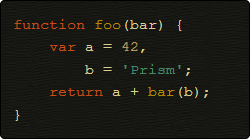
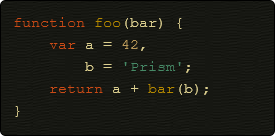
Added automated screenshot task (#80)
This adds a gulp task for automatically redoing all screenshots.
The task can be run using `npx gulp screenshot`.

I used [capture-website](https://github.com/sindresorhus/capture-website) to take the screenshot which uses Chrome under the hood.

A few improvements compared to the current screenshots:

- All images have the same width.
- Proper transparency for rounded corners.
- Proper centering and clipping for all images.
- All screenshots reflect how the theme actually looks in the browser (all Duotone * screenshots have increased padding).

diff --git a/gulpfile.js b/gulpfile.js
@@ -1,0 +1,64 @@
+const fs = require('fs').promises;
+const captureWebsite = require('capture-website');
+const path = require('path');
+
+
+const themesDir = path.join(__dirname, 'themes');
+const screenshotDir = path.join(__dirname, 'screenshots');
+
+/**
+ * Returns the names of all themes. This includes the `prism-` prefix.
+ */
+async function getThemes() {
+	return (await fs.readdir(themesDir)).map(f => (/^.+(?=\.css$)/.exec(f) || [''])[0]).filter(f => f);
+}
+
+/**
+ * Takes a screenshot of all themes overwriting the old ones.
+ */
+async function screenshotAllThemes() {
+	for (const theme of await getThemes()) {
+		await screenshotTheme(theme, true);
+	}
+}
+
+/**
+ * Takes a screenshot of themes which don't have one already.
+ */
+async function screenshotMissingThemes() {
+	for (const theme of await getThemes()) {
+		await screenshotTheme(theme, false);
+	}
+}
+
+/**
+ * Takes a screenshot of the given themes and saves the image file in the screenshot directory.
+ *
+ * __IMPORTANT:__ Screenshots have to be taken sequentially, one after an other, to prevent a memory leak.
+ *
+ * @param {string} theme
+ * @param {boolean} overwrite
+ */
+async function screenshotTheme(theme, overwrite) {
+	const file = `${screenshotDir}/${theme}.png`;
+
+	if (await fs.stat(file).then(s => s.isFile()).catch(() => false)) {
+		if (overwrite) {
+			await fs.unlink(file);
+		} else {
+			return;
+		}
+	}
+
+	await captureWebsite.file(screenshotDir + '/code.html', file, {
+		defaultBackground: false,
+		scaleFactor: 1,
+		element: 'pre',
+		styles: [
+			await fs.readFile(`${themesDir}/${theme}.css`, 'utf-8')
+		]
+	});
+}
+
+exports.screenshot = screenshotMissingThemes;
+exports['screenshot-all'] = screenshotAllThemes;

diff --git a/screenshots/code.html b/screenshots/code.html
@@ -1,0 +1,36 @@
+<!DOCTYPE html>
+<html>
+
+<head>
+	<title>The code page for screenshots</title>
+
+	<!-- Import commonly used fonts -->
+	<link href="https://fonts.googleapis.com/css?family=Fira+Mono:400,500,700&display=swap" rel="stylesheet">
+
+	<style>
+		body {
+			margin: 0 !important;
+		}
+
+		pre {
+			margin: 0 !important;
+
+			/* This is a trick to get all images the same width */
+			display: table !important;
+			min-width: 275px;
+			box-sizing: border-box;
+		}
+	</style>
+</head>
+
+<body>
+	<pre><code class="language-javascript">function foo(bar) {
+	var a = 42,
+	    b = 'Prism';
+	return a + bar(b);
+}</code></pre>
+
+	<script src="https://prismjs.com/prism.js"></script>
+</body>
+
+</html>

diff --git a/README.md b/README.md
@@ -20,6 +20,19 @@ To use one of the themes, just include the theme's CSS file in your page. Exampl
 </html>
 ```
 
+## Adding a New Theme
+
+To add your own theme, copy it into the `themes` directory and add your themes to the list of available themes in the readme.
+The links for your themes have to be `themes/prism-<your theme>.css` for the theme itself and `screenshots/prism-<your theme>.png` for the screenshot.
+
+The screenshot will be created for you by running the following command:
+
+```bash
+npm ci && npx gulp screenshot
+```
+
+Thank you so much for contributing!!
+
 ## Available themes
 
 * [__CB__](themes/prism-cb.css) (originally by [C. Bavota](https://bitbucket.org/cbavota), adapted by [atelierbram](https://github.com/atelierbram))<br />
@@ -35,7 +48,7 @@ To use one of the themes, just include the theme's CSS file in your page. Exampl
 [![Xonokai](screenshots/prism-xonokai.png)](themes/prism-xonokai.css)
 
 * [__Ateliersulphurpool-light__](themes/prism-base16-ateliersulphurpool.light.css) (by [Bram de Haan](https://github.com/atelierbram))<br />
-[![Ateliersulpherpool-light](screenshots/prism-ateliersulphurpool-light.png)](themes/prism-base16-ateliersulphurpool.light.css)
+[![Ateliersulpherpool-light](screenshots/prism-base16-ateliersulphurpool.light.png)](themes/prism-base16-ateliersulphurpool.light.css)
 
 * [__Hopscotch__](themes/prism-hopscotch.css) (by [Jan T. Sott](https://github.com/idleberg))<br />
 [![Hopscotch](screenshots/prism-hopscotch.png)](themes/prism-hopscotch.css)
